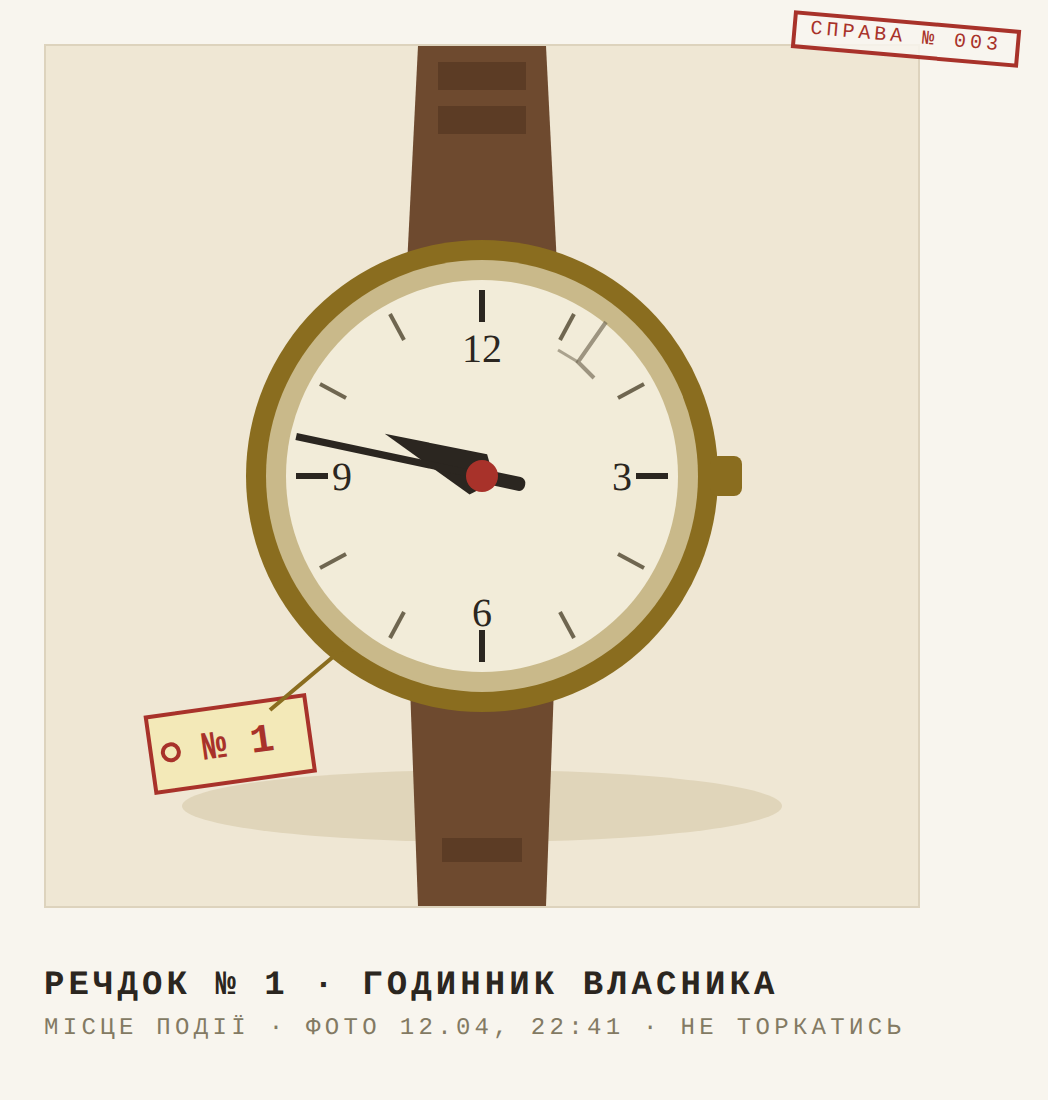
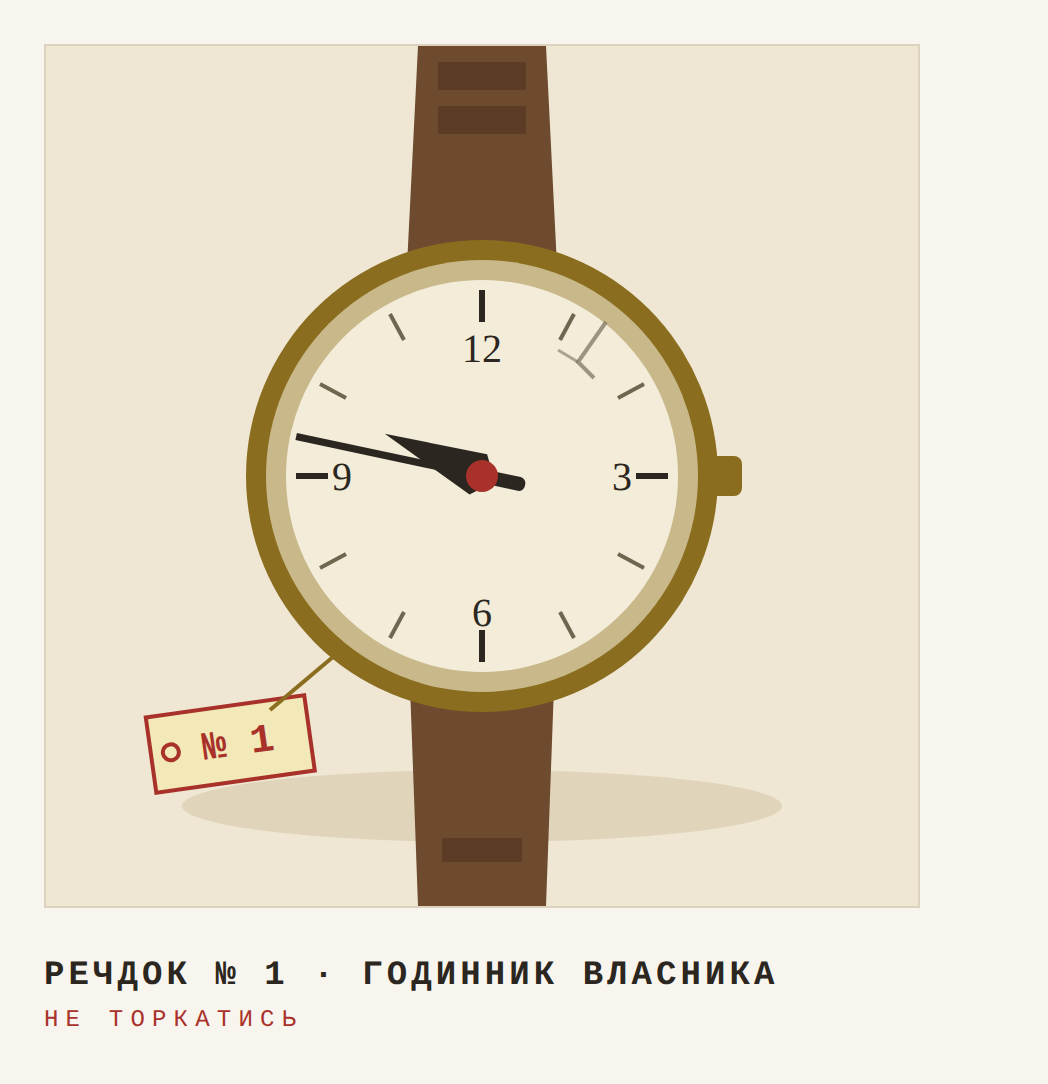
Полароїди v2: без штампа, класичний силует піджака і пістолета, серія SXTN 12, підпис лише «НЕ ТОРКАТИСЬ»
Claude-Session: https://claude.ai/code/session_01Egbb1QZA23nT1FLr9Hjpcj

diff --git a/props/props-source.html b/props/props-source.html
@@ -8,19 +8,11 @@
   .polaroid {
     width: 480px; background: #f8f5ee;
     padding: 22px 22px 0; box-shadow: 0 6px 18px rgba(40,30,10,.35);
-    position: relative;
   }
   .photo { width: 436px; height: 430px; background: #efe7d4; overflow: hidden; border: 1px solid #ddd3bd; }
-  .caption {
-    height: 96px; display: flex; flex-direction: column; justify-content: center; gap: 4px;
-  }
+  .caption { height: 88px; display: flex; flex-direction: column; justify-content: center; gap: 5px; }
   .caption b { font-size: 17px; letter-spacing: .12em; color: #2b2620; }
-  .caption span { font-size: 12px; letter-spacing: .18em; color: #837a63; }
-  .case-stamp {
-    position: absolute; top: 10px; right: 14px; transform: rotate(5deg);
-    border: 2px double #a8322a; color: #a8322a; font-size: 10px;
-    letter-spacing: .2em; padding: 2px 7px; background: rgba(248,245,238,.85);
-  }
+  .caption span { font-size: 12px; letter-spacing: .3em; color: #a8322a; }
   svg { display: block; }
 </style>
 </head>
@@ -28,7 +20,6 @@
 
 <!-- ═══ РЕЧДОК 1 · ГОДИННИК (стрілки на 21:47) ═══ -->
 <div class="polaroid" id="p1">
-  <span class="case-stamp">СПРАВА № 003</span>
   <div class="photo">
     <svg viewBox="0 0 436 430" width="436" height="430">
       <rect width="436" height="430" fill="#efe7d4"/>
@@ -74,7 +65,7 @@
         <rect x="214.5" y="215" width="7" height="22" rx="3" fill="#2b2620"/>
       </g>
       <circle cx="218" cy="215" r="8" fill="#a8322a"/>
-      <!-- тріщина на склі: верхній правий край, подалі від стрілок -->
+      <!-- тріщина на склі -->
       <path d="M280 138 L266 158 L274 166" stroke="#6f6650" stroke-width="2" fill="none" opacity=".65"/>
       <path d="M266 158 L256 152" stroke="#6f6650" stroke-width="1.5" fill="none" opacity=".55"/>
       <!-- бирка речдоку -->
@@ -88,121 +79,139 @@
   </div>
   <div class="caption">
     <b>РЕЧДОК № 1 · ГОДИННИК ВЛАСНИКА</b>
-    <span>МІСЦЕ ПОДІЇ · ФОТО 12.04, 22:41 · НЕ ТОРКАТИСЬ</span>
+    <span>НЕ ТОРКАТИСЬ</span>
   </div>
 </div>
 
-<!-- ═══ РЕЧДОК 2 · ПІДЖАК З ЛЕЙБОЮ (…53 непомітно в тексті) ═══ -->
+<!-- ═══ РЕЧДОК 2 · ПІДЖАК (класичний однобортний, лейба у збільшенні) ═══ -->
 <div class="polaroid" id="p2">
-  <span class="case-stamp">СПРАВА № 003</span>
   <div class="photo">
     <svg viewBox="0 0 436 430" width="436" height="430">
       <rect width="436" height="430" fill="#efe7d4"/>
-      <ellipse cx="190" cy="400" rx="160" ry="16" fill="#e0d5ba"/>
-      <!-- піджак розгорнутий: спинка + права пола з підкладкою -->
-      <path d="M60 80 Q70 52 110 44 L150 36 Q190 60 230 36 L270 44 Q310 52 320 80 L330 240 L300 400 L80 400 L50 240 z" fill="#4a4438"/>
-      <!-- підкладка (відгорнута пола) -->
-      <path d="M190 60 L300 90 L320 250 L286 392 L190 392 z" fill="#8d7d5a"/>
-      <path d="M190 60 L300 90 L320 250 L286 392 L190 392 z" fill="none" stroke="#6f6650" stroke-width="2"/>
-      <!-- шов підкладки -->
-      <path d="M206 92 L292 116 L306 248 L278 378" stroke="#6f6650" stroke-width="1.5" stroke-dasharray="6 4" fill="none"/>
-      <!-- комір/лацкан -->
-      <path d="M110 44 L190 60 L150 130 L92 96 z" fill="#37322a"/>
-      <path d="M270 44 L190 60 L226 118 L292 84 z" fill="#37322a"/>
-      <!-- пляма крові -->
-      <path d="M96 210 q-14 -26 8 -32 q6 -18 24 -10 q20 -8 24 12 q18 8 6 26 q4 20 -18 18 q-16 12 -26 -2 q-20 2 -18 -12 z" fill="#7a2320" opacity=".85"/>
-      <circle cx="150" cy="242" r="7" fill="#7a2320" opacity=".7"/>
-      <circle cx="122" cy="252" r="4" fill="#7a2320" opacity=".6"/>
-      <!-- лейба на підкладці -->
-      <rect x="228" y="150" width="58" height="34" rx="3" fill="#f2ecd9" stroke="#6f6650"/>
-      <line x1="228" y1="158" x2="286" y2="158" stroke="#c9b98a"/>
-      <!-- лінія до збільшення -->
-      <circle cx="257" cy="167" r="34" fill="none" stroke="#a8322a" stroke-width="2" stroke-dasharray="5 4"/>
-      <line x1="283" y1="192" x2="300" y2="238" stroke="#a8322a" stroke-width="2" stroke-dasharray="5 4"/>
+      <ellipse cx="218" cy="252" rx="168" ry="16" fill="#e0d5ba"/>
+      <g>
+        <!-- рукави -->
+        <path d="M92 96 Q76 102 72 122 L58 236 Q57 246 66 248 L104 254 Q112 255 113 246 L128 132 z" fill="#37322a"/>
+        <path d="M344 96 Q360 102 364 122 L378 236 Q379 246 370 248 L332 254 Q324 255 323 246 L308 132 z" fill="#37322a"/>
+        <!-- корпус: ліва і права поли -->
+        <path d="M218 74 L188 64 L120 90 Q108 96 106 112 L112 258 Q112 266 122 266 L212 266 L216 190 z" fill="#3f3a30"/>
+        <path d="M218 74 L248 64 L316 90 Q328 96 330 112 L324 258 Q324 266 314 266 L224 266 L220 190 z" fill="#453f34"/>
+        <!-- перекриття піл (однобортний, застібнутий) -->
+        <path d="M218 74 L246 168 L242 266 L204 266 L206 168 z" fill="#3f3a30"/>
+        <!-- лацкани з горловиною -->
+        <path d="M218 74 L186 64 L160 128 L204 176 z" fill="#332f27"/>
+        <path d="M218 74 L250 64 L276 128 L232 176 z" fill="#332f27"/>
+        <!-- комір -->
+        <path d="M186 64 L218 52 L250 64 L232 88 L218 80 L204 88 z" fill="#2b2723"/>
+        <!-- ґудзики -->
+        <circle cx="222" cy="196" r="5" fill="#1f1c17"/>
+        <circle cx="222" cy="230" r="5" fill="#1f1c17"/>
+        <!-- нагрудна кишеня і нижні кишені з клапанами -->
+        <rect x="136" y="140" width="34" height="6" rx="2" fill="#2b2723"/>
+        <rect x="126" y="216" width="52" height="12" rx="3" fill="#2b2723"/>
+        <rect x="258" y="216" width="52" height="12" rx="3" fill="#2b2723"/>
+        <!-- шви на плечах -->
+        <path d="M120 90 L128 132 M316 90 L308 132" stroke="#2b2723" stroke-width="2" fill="none"/>
+        <!-- пляма крові на грудях -->
+        <path d="M158 148 q-12 -20 6 -26 q6 -14 20 -8 q16 -6 20 10 q14 6 4 20 q4 16 -14 14 q-12 10 -22 -2 q-16 2 -14 -8 z" fill="#7a2320" opacity=".85"/>
+        <circle cx="196" cy="176" r="5" fill="#7a2320" opacity=".7"/>
+        <circle cx="172" cy="184" r="3.5" fill="#7a2320" opacity=".6"/>
+      </g>
+      <!-- маркер зони лейби: внутрішній бік коміра -->
+      <circle cx="218" cy="72" r="30" fill="none" stroke="#a8322a" stroke-width="2" stroke-dasharray="5 4"/>
+      <line x1="230" y1="99" x2="262" y2="286" stroke="#a8322a" stroke-width="2" stroke-dasharray="5 4"/>
       <!-- збільшена лейба -->
-      <g transform="rotate(-3 290 306)">
-        <rect x="150" y="240" width="264" height="132" rx="5" fill="#f8f5ee" stroke="#6f6650" stroke-width="2"/>
-        <line x1="150" y1="262" x2="414" y2="262" stroke="#c9b98a"/>
-        <text x="282" y="257" text-anchor="middle" font-family="Georgia" font-size="13" letter-spacing="3" fill="#4a4438">KRAVETS &amp; SYN</text>
-        <text x="162" y="285" font-family="'Courier New',monospace" font-size="13" fill="#4a4438">вовна 100% · виріб 4-Б</text>
-        <text x="162" y="306" font-family="'Courier New',monospace" font-size="13" fill="#4a4438">розмір 52-4 · партія N-53</text>
-        <text x="162" y="327" font-family="'Courier New',monospace" font-size="13" fill="#4a4438">чистити делікатно · не прати</text>
-        <!-- значки догляду -->
+      <g transform="rotate(-2 290 348)">
+        <rect x="150" y="290" width="264" height="118" rx="5" fill="#f8f5ee" stroke="#6f6650" stroke-width="2"/>
+        <line x1="150" y1="312" x2="414" y2="312" stroke="#c9b98a"/>
+        <text x="282" y="307" text-anchor="middle" font-family="Georgia" font-size="13" letter-spacing="3" fill="#4a4438">KRAVETS &amp; SYN</text>
+        <text x="162" y="334" font-family="'Courier New',monospace" font-size="13" fill="#4a4438">вовна 100%</text>
+        <text x="162" y="355" font-family="'Courier New',monospace" font-size="13" fill="#4a4438">розмір 52-4 · партія N-53</text>
+        <text x="162" y="376" font-family="'Courier New',monospace" font-size="13" fill="#4a4438">чистити делікатно · не прати</text>
         <g stroke="#4a4438" fill="none" stroke-width="1.5">
-          <rect x="162" y="338" width="17" height="17"/>
-          <circle cx="199" cy="346" r="8"/>
-          <path d="M216 355 l8 -17 l8 17 z"/>
-          <path d="M240 340 h17 l-3 13 h-11 z"/>
+          <rect x="162" y="386" width="15" height="15"/>
+          <circle cx="196" cy="393" r="7"/>
+          <path d="M212 400 l7 -15 l7 15 z"/>
+          <path d="M234 386 h15 l-2.5 12 h-10 z"/>
         </g>
       </g>
       <!-- бирка речдоку -->
       <g transform="rotate(6 90 70)">
-        <rect x="46" y="52" width="80" height="38" fill="#f3e9b8" stroke="#a8322a" stroke-width="2"/>
-        <circle cx="56" cy="71" r="4" fill="none" stroke="#a8322a" stroke-width="2"/>
-        <text x="90" y="77" text-anchor="middle" font-family="'Courier New',monospace" font-size="20" font-weight="bold" fill="#a8322a">№ 2</text>
+        <rect x="46" y="40" width="80" height="38" fill="#f3e9b8" stroke="#a8322a" stroke-width="2"/>
+        <circle cx="56" cy="59" r="4" fill="none" stroke="#a8322a" stroke-width="2"/>
+        <text x="90" y="65" text-anchor="middle" font-family="'Courier New',monospace" font-size="20" font-weight="bold" fill="#a8322a">№ 2</text>
       </g>
     </svg>
   </div>
   <div class="caption">
     <b>РЕЧДОК № 2 · ПІДЖАК, СЛІДИ КРОВІ</b>
-    <span>ЛЕЙБА НА ПІДКЛАДЦІ · ФОТО 12.04, 22:44 · НЕ ТОРКАТИСЬ</span>
+    <span>НЕ ТОРКАТИСЬ</span>
   </div>
 </div>
 
-<!-- ═══ РЕЧДОК 3 · ЧАСТИНА ПІСТОЛЕТА З СЕРІЙНИКОМ (букви + 12 цифр) ═══ -->
+<!-- ═══ РЕЧДОК 3 · ПІСТОЛЕТ (серія SXTN 12) ═══ -->
 <div class="polaroid" id="p3">
-  <span class="case-stamp">СПРАВА № 003</span>
   <div class="photo">
     <svg viewBox="0 0 436 430" width="436" height="430">
       <rect width="436" height="430" fill="#efe7d4"/>
-      <ellipse cx="218" cy="368" rx="170" ry="18" fill="#e0d5ba"/>
-      <!-- кадр «частина зброї»: затвор + рамка, руків'я йде за край фото -->
-      <!-- затвор -->
-      <path d="M20 150 L390 150 L410 168 L410 208 L20 208 z" fill="#3d434d"/>
-      <path d="M20 150 L390 150 L410 168 L410 176 L20 176 z" fill="#4c545f"/>
-      <!-- насічки на затворі -->
-      <g stroke="#2b3038" stroke-width="4">
-        <line x1="330" y1="156" x2="330" y2="202"/>
-        <line x1="342" y1="156" x2="342" y2="202"/>
-        <line x1="354" y1="156" x2="354" y2="202"/>
-        <line x1="366" y1="156" x2="366" y2="202"/>
+      <ellipse cx="218" cy="372" rx="168" ry="16" fill="#e0d5ba"/>
+      <g>
+        <!-- цілик і мушка -->
+        <rect x="318" y="118" width="14" height="12" fill="#2f343b"/>
+        <rect x="56" y="120" width="8" height="10" fill="#2f343b"/>
+        <!-- затвор: дуло вліво, скошений ніс -->
+        <path d="M62 130 L332 130 Q346 130 346 144 V172 Q346 186 332 186 L54 186 Q44 186 44 176 V152 Q44 138 62 130 z" fill="#3a3f47"/>
+        <!-- верхня грань затвора -->
+        <path d="M62 130 L332 130 Q346 130 346 144 L44 144 Q46 134 62 130 z" fill="#4a505a"/>
+        <!-- дульний зріз -->
+        <rect x="44" y="150" width="8" height="26" rx="3" fill="#23272e"/>
+        <circle cx="52" cy="163" r="5" fill="#181b20"/>
+        <!-- вікно викидача -->
+        <rect x="252" y="136" width="46" height="16" rx="3" fill="#23272e"/>
+        <!-- насічки ззаду затвора -->
+        <g stroke="#2b3038" stroke-width="4">
+          <line x1="306" y1="136" x2="306" y2="180"/>
+          <line x1="316" y1="136" x2="316" y2="180"/>
+          <line x1="326" y1="136" x2="326" y2="180"/>
+          <line x1="336" y1="136" x2="336" y2="180"/>
+        </g>
+        <!-- рамка -->
+        <path d="M60 186 L344 186 L344 200 Q344 210 334 212 L296 214 L296 186 z" fill="#4c525c"/>
+        <path d="M60 186 L296 186 L296 214 L216 218 L206 240 L168 240 L158 214 L72 208 Q60 206 60 196 z" fill="#4c525c"/>
+        <!-- планка із серійником -->
+        <rect x="96" y="192" width="92" height="17" rx="2" fill="#6a7382" stroke="#2b3038"/>
+        <text x="142" y="205" text-anchor="middle" font-family="'Courier New',monospace" font-size="14" letter-spacing="2" fill="#1d2126">SXTN 12</text>
+        <!-- спускова скоба (отвір) і гачок -->
+        <path d="M158 214 L216 218 L206 240 L212 262 Q188 276 168 262 Q152 240 158 214 z" fill="#efe7d4"/>
+        <path d="M158 214 Q148 244 170 268 Q192 282 216 266 L206 240 L216 218 L296 214 L296 186 L60 186 L60 196 Q60 206 72 208 z" fill="none"/>
+        <path d="M156 212 Q146 246 170 270 Q194 284 218 268" stroke="#3a3f47" stroke-width="9" fill="none"/>
+        <path d="M186 224 q-8 14 2 26" stroke="#2b3038" stroke-width="6" fill="none"/>
+        <!-- руків'я з нахилом назад -->
+        <path d="M252 214 L342 210 Q352 210 354 220 L376 322 Q378 336 364 338 L292 348 Q280 350 278 338 L262 232 Q258 218 252 214 z" fill="#454a41"/>
+        <!-- накладка руків'я з насічкою -->
+        <path d="M276 232 L340 228 L360 320 L300 330 z" fill="#3a3f36"/>
+        <g fill="#2e332c">
+          <circle cx="298" cy="252" r="4"/><circle cx="318" cy="249" r="4"/><circle cx="338" cy="246" r="4"/>
+          <circle cx="303" cy="274" r="4"/><circle cx="323" cy="271" r="4"/><circle cx="343" cy="268" r="4"/>
+          <circle cx="308" cy="296" r="4"/><circle cx="328" cy="293" r="4"/><circle cx="348" cy="290" r="4"/>
+          <circle cx="313" cy="316" r="4"/><circle cx="333" cy="313" r="4"/>
+        </g>
+        <!-- п'ята магазину -->
+        <path d="M288 340 L368 330 L372 344 Q373 352 364 353 L296 360 Q288 360 288 352 z" fill="#23272e"/>
       </g>
-      <!-- вікно викидача -->
-      <rect x="238" y="158" width="64" height="18" rx="4" fill="#23272e"/>
-      <!-- цілик і мушка -->
-      <rect x="44" y="140" width="10" height="10" fill="#3d434d"/>
-      <rect x="380" y="140" width="8" height="10" fill="#3d434d"/>
-      <!-- рамка -->
-      <path d="M20 208 L410 208 L410 236 Q410 252 392 254 L332 258 L320 300 Q316 314 300 312 L252 306 L240 360 Q236 376 220 374 L150 366 Q136 364 138 348 L146 258 L20 244 z" fill="#565e6a"/>
-      <!-- спускова скоба і гачок -->
-      <path d="M252 258 Q238 300 268 306 L292 308 Q306 268 288 258 z" fill="#3d434d"/>
-      <path d="M270 262 q-10 16 2 30" stroke="#2b3038" stroke-width="6" fill="none"/>
-      <!-- руків'я з насічкою, обрізане краєм фото -->
-      <path d="M150 366 L138 430 L262 430 L240 360 Q236 376 220 374 z" fill="#4a4438"/>
-      <g fill="#3a352c">
-        <circle cx="175" cy="392" r="4"/><circle cx="197" cy="396" r="4"/><circle cx="219" cy="400" r="4"/>
-        <circle cx="166" cy="410" r="4"/><circle cx="188" cy="414" r="4"/><circle cx="210" cy="418" r="4"/>
-      </g>
-      <!-- планка із серійним номером: букви + 12 цифр -->
-      <rect x="52" y="216" width="252" height="24" rx="3" fill="#6a7382" stroke="#2b3038"/>
-      <text x="60" y="233" font-family="'Courier New',monospace" font-size="16" letter-spacing="2" fill="#1d2126">SX 4712 0388 9214</text>
-      <!-- стрілка уваги -->
-      <path d="M92 286 L120 248" stroke="#a8322a" stroke-width="3" fill="none"/>
-      <path d="M120 248 l-12 3 l7 10 z" fill="#a8322a"/>
       <!-- бирка речдоку -->
-      <g transform="rotate(-6 350 330)">
-        <rect x="308" y="312" width="80" height="38" fill="#f3e9b8" stroke="#a8322a" stroke-width="2"/>
-        <circle cx="318" cy="331" r="4" fill="none" stroke="#a8322a" stroke-width="2"/>
-        <text x="352" y="337" text-anchor="middle" font-family="'Courier New',monospace" font-size="20" font-weight="bold" fill="#a8322a">№ 3</text>
+      <g transform="rotate(-6 120 320)">
+        <rect x="76" y="300" width="80" height="38" fill="#f3e9b8" stroke="#a8322a" stroke-width="2"/>
+        <circle cx="86" cy="319" r="4" fill="none" stroke="#a8322a" stroke-width="2"/>
+        <text x="120" y="325" text-anchor="middle" font-family="'Courier New',monospace" font-size="20" font-weight="bold" fill="#a8322a">№ 3</text>
       </g>
-      <!-- маркер криміналіста (табличка-намет) -->
-      <path d="M36 84 L66 84 L58 112 L44 112 z" fill="#c9a437"/>
-      <text x="51" y="105" text-anchor="middle" font-family="'Courier New',monospace" font-size="14" font-weight="bold" fill="#2b2620">A</text>
+      <!-- стрілка на серійник -->
+      <line x1="118" y1="296" x2="128" y2="216" stroke="#a8322a" stroke-width="2" stroke-dasharray="5 4"/>
     </svg>
   </div>
   <div class="caption">
     <b>РЕЧДОК № 3 · ЗБРОЯ З МІСЦЯ ПОДІЇ</b>
-    <span>СЕРІЙНИЙ № НА РАМЦІ · ФОТО 12.04, 22:47 · НЕ ТОРКАТИСЬ</span>
+    <span>НЕ ТОРКАТИСЬ</span>
   </div>
 </div>
 
